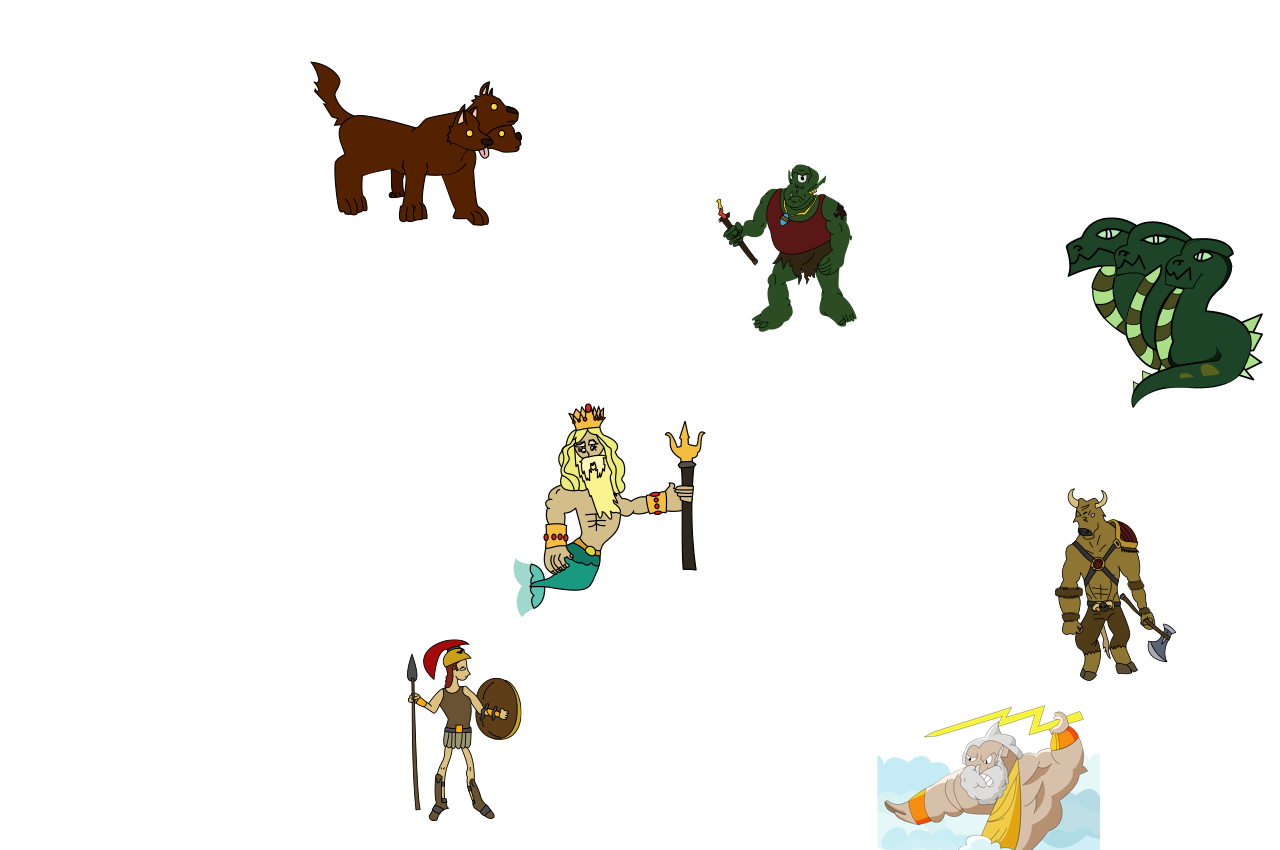
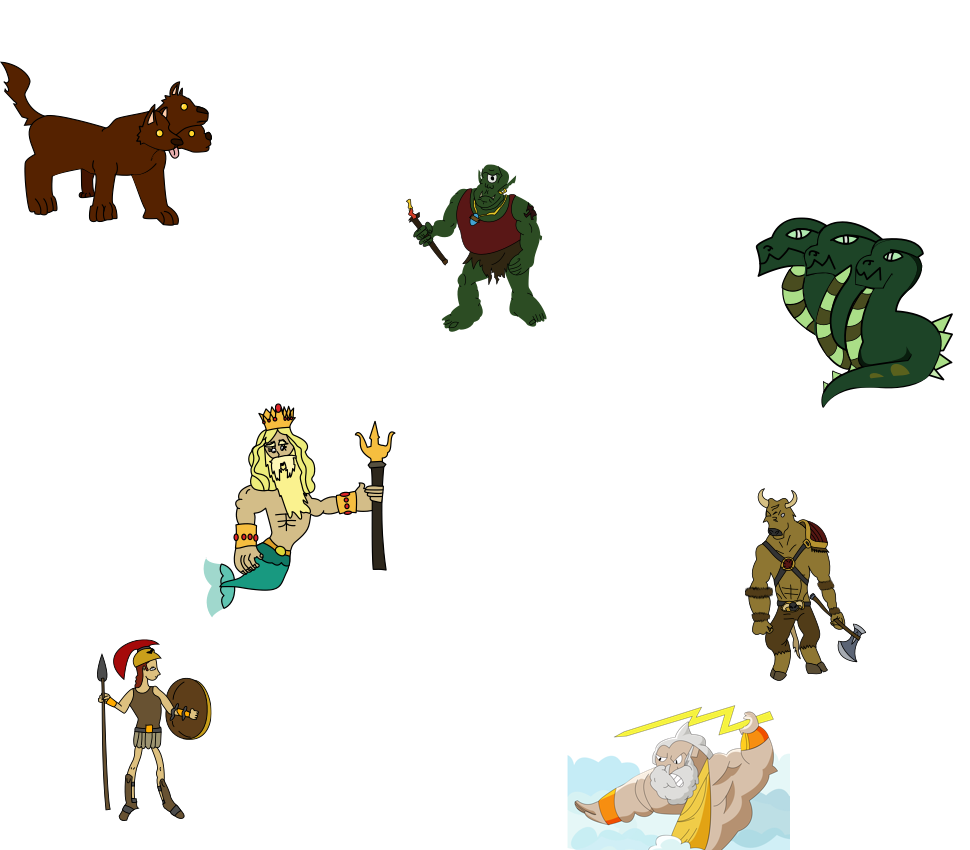
Update bg.

diff --git a/bundle.js b/bundle.js
@@ -11771,7 +11771,7 @@ var Game = function (_React$PureComponent) {
     var _this = _possibleConstructorReturn(this, (Game.__proto__ || Object.getPrototypeOf(Game)).call(this, props));
 
     _this.state = {
-      phase: null,
+      phase: _constants.BOARD,
       numOfPlayers: null,
       nameOfPlayers: undefined,
       playerPositions: undefined

diff --git a/css/custom.css b/css/custom.css
@@ -220,8 +220,9 @@ body {
   padding: 80px;
   background-color: #ddd;
   background-image: url('../images/gods.png');
-  background-position: -220px -35px;
-  background-size: 1300px;
+  background-repeat: no-repeat;
+  background-position: center -35px;
+  background-size: 1000px;
   flex-grow: 1;
 }
 
